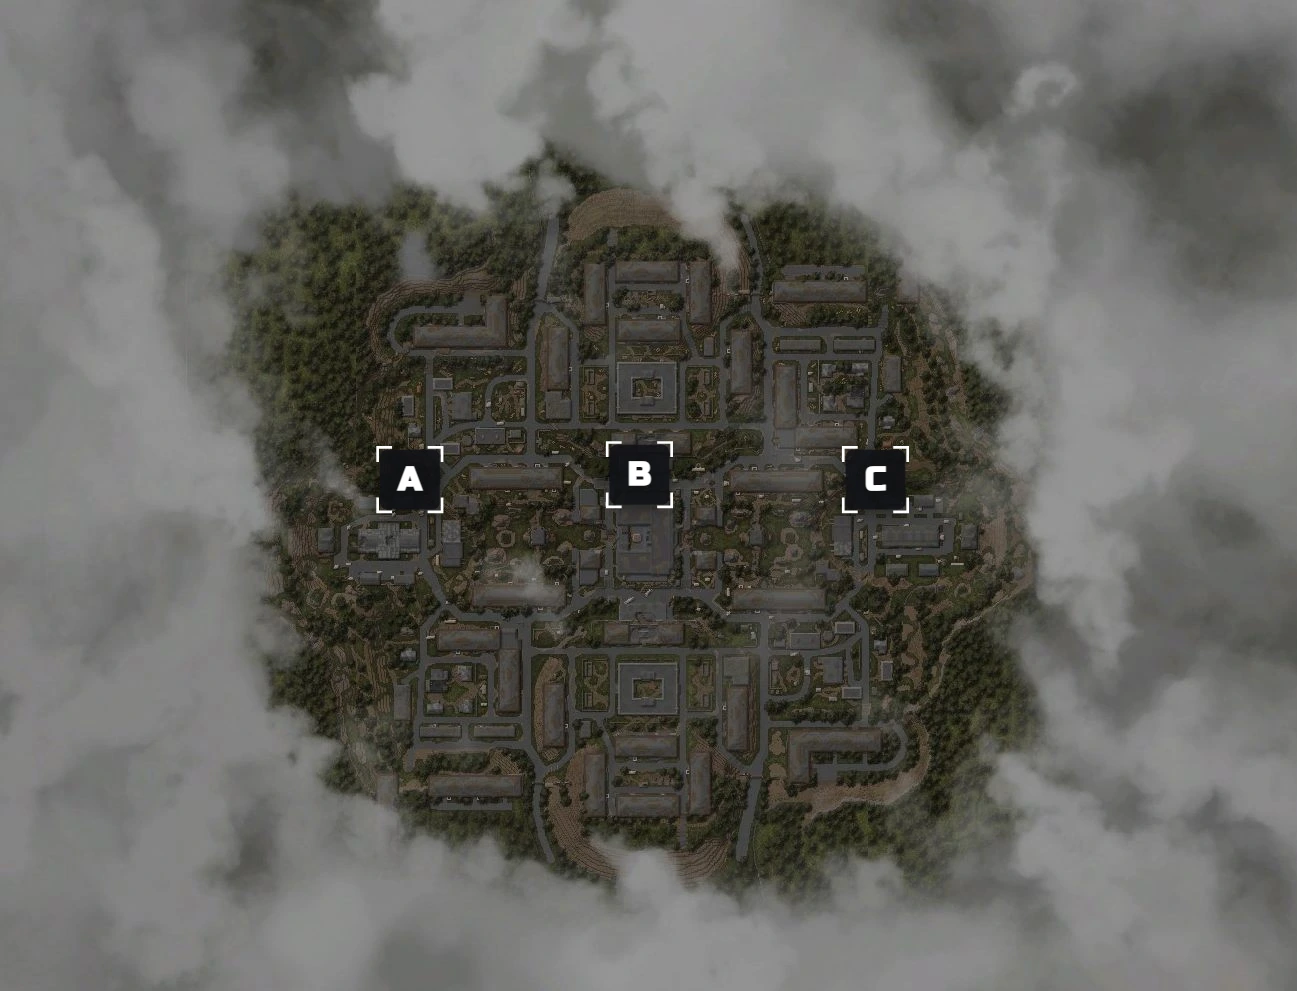
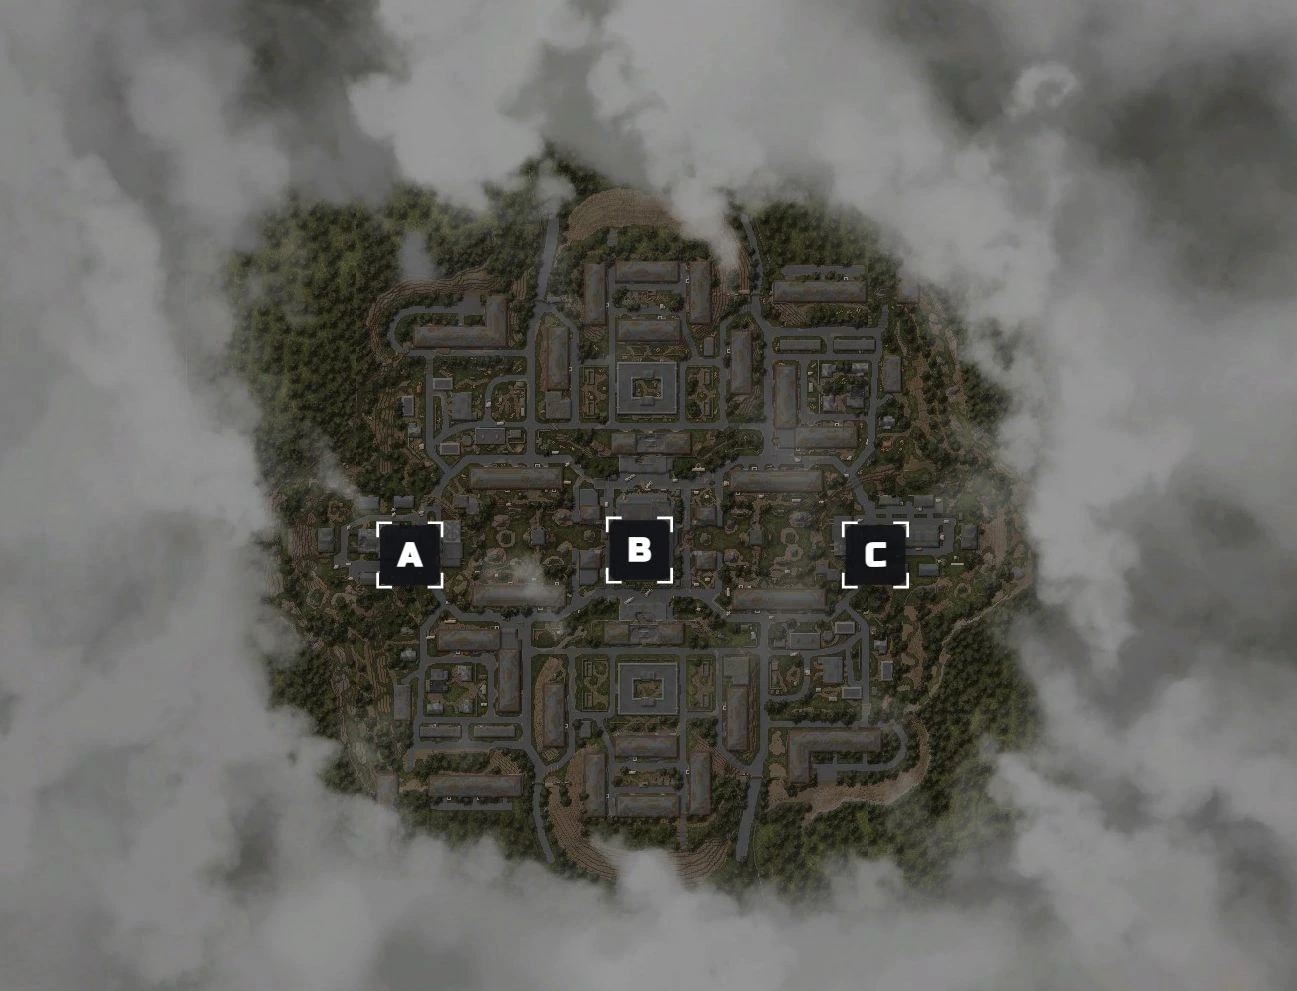
feat: vertical tool panel next to map and lower Hvoiny capture points

Changed region(s): [[0.4626, 0.4238, 0.5243, 0.6054], [0.6476, 0.4541, 0.7093, 0.6054], [0.2776, 0.4541, 0.3392, 0.6054]]

diff --git a/index.html b/index.html
@@ -180,8 +180,9 @@ a:hover{color:var(--ac)}
 .side-nav{flex:1;display:flex;flex-direction:column;gap:2px;min-height:0;overflow-y:auto;scrollbar-width:thin}
 .side-sec{padding:12px 10px 4px;font-size:11px;letter-spacing:.14em;text-transform:uppercase;color:var(--mut);font-weight:700;opacity:.8}
 .side-foot{flex:none;border-top:1px solid var(--bd);padding-top:10px;display:flex;flex-direction:column;gap:2px;margin-top:auto}
-.side-tools{display:flex;flex:none;flex-direction:column;gap:8px;padding:12px;border:1px solid var(--bd);border-radius:14px;background:linear-gradient(180deg,rgba(var(--ac-rgb),.07),transparent 130px),var(--in);margin-bottom:12px}
-.side-tools .tac-sec{font-size:11px;letter-spacing:.14em;text-transform:uppercase;color:var(--mut);font-weight:700;margin:0 0 2px}
+.tac-vtools{display:flex;flex:none;flex-direction:column;gap:8px;padding:10px;border:1px solid var(--bd);border-radius:14px;background:linear-gradient(180deg,rgba(var(--ac-rgb),.07),transparent 130px),var(--in);align-self:start;position:sticky;top:76px}
+.tac-vtools .tac-sec{font-size:11px;letter-spacing:.14em;text-transform:uppercase;color:var(--mut);font-weight:700;margin:0 0 2px}
+.tac-work{display:grid;grid-template-columns:132px minmax(0,1fr);gap:14px;align-items:start}
 .acc-row{display:flex;align-items:center;gap:7px;padding:6px 4px 4px}
 .acc-row .alab{font-size:10px;letter-spacing:.1em;text-transform:uppercase;color:var(--mut);font-weight:700;margin-right:2px}
 .acsw{width:24px;height:24px;min-height:0;padding:0;border-radius:50%;border:2px solid transparent;box-shadow:0 0 0 1px var(--bd2);background:var(--sw);transform:none}
@@ -289,9 +290,11 @@ a:hover{color:var(--ac)}
 .tac-tool{display:inline-flex;align-items:center;justify-content:center;gap:6px;padding:7px 11px;min-height:36px;border-radius:9px;background:var(--in);border:1px solid var(--bd);color:var(--mut);font-weight:600;font-size:13px;box-shadow:none;transform:none;text-decoration:none}
 .tac-tool:hover{color:var(--tx);border-color:var(--ac);box-shadow:none;transform:none;filter:none}
 .tac-tool.on{color:var(--tx);border-color:var(--ac);background:linear-gradient(180deg,rgba(var(--ac-rgb),.26),rgba(var(--ac-rgb),.1));box-shadow:inset 0 0 0 1px rgba(var(--ac-rgb),.42),0 0 14px rgba(var(--ac-rgb),.16)}
-.side-tools .tac-tools{display:grid;grid-template-columns:repeat(2,minmax(0,1fr));gap:6px}
-.side-tools .tac-tool{min-height:46px}
-.side-tools:empty{display:none}
+.tac-vtools .tac-tools{display:flex;flex-direction:column;gap:6px}
+.tac-vtools .tac-tool{width:100%;justify-content:flex-start;min-height:44px}
+.tac-vtools .tac-tool.on{box-shadow:inset 3px 0 0 var(--ac),inset 0 0 0 1px rgba(var(--ac-rgb),.42),0 0 14px rgba(var(--ac-rgb),.16)}
+.tac-vtools .tac-markbar{flex-direction:column;align-items:stretch;margin:0;padding:8px;gap:6px}
+.tac-vtools .tac-sides{display:flex;flex-wrap:wrap}
 .tac-sep{width:1px;height:22px;background:var(--bd);margin:0 3px}
 .tac-colors{display:flex;gap:5px;align-items:center;flex-wrap:wrap}
 .tac-color{width:28px;height:28px;min-height:0;padding:0;border-radius:50%;border:2px solid transparent;box-shadow:0 0 0 1px var(--bd2);transform:none}
@@ -361,6 +364,11 @@ button.danger:hover{box-shadow:0 0 18px rgba(225,29,72,.45)}
   .tac-map img{width:88px;height:56px;flex:none}
   .tac-map .nm{flex:1;min-width:0}
   .tac-tool{min-height:44px}
+  .tac-work{grid-template-columns:1fr}
+  .tac-vtools{position:static}
+  .tac-vtools .tac-tools{display:grid;grid-template-columns:repeat(3,minmax(0,1fr))}
+  .tac-vtools .tac-markbar{flex-direction:row;flex-wrap:wrap}
+  .tac-vtools .tac-tool{width:auto}
   .tac-color{width:40px;height:40px}
   .tac-side-b{min-height:40px;padding:6px 12px}
   .tac-zoom button{min-width:40px;min-height:40px}
@@ -576,7 +584,6 @@ function shell(title, tabs, views, again, icon, primary) {
     <aside class="sidebar">
       <div class="side-brand">${logo}<div style="min-width:0"><span>ClanPulse</span><b>${esc(title)}</b></div></div>
       <nav class="side-nav">${nav}</nav>
-      <div class="side-tools" id="side-tools"></div>
       <div class="side-foot">${foot}</div>
     </aside>
     <div class="main">
@@ -598,7 +605,6 @@ function shell(title, tabs, views, again, icon, primary) {
   <aside class="drawer" id="drawer">
     <div class="side-brand" style="margin-bottom:4px">${logo}<div style="min-width:0"><span>ClanPulse</span><b>${esc(title)}</b></div></div>
     <nav class="side-nav">${nav}</nav>
-    <div class="side-tools" id="drawer-tools"></div>
     <div class="side-foot">${foot}</div>
   </aside>`;
   const drawer = document.getElementById('drawer'), scrim = document.getElementById('scrim');
@@ -1834,13 +1840,21 @@ const TAC_MAPS = {
   berdovka: { name: 'Малая Бердовка', file: 'tactics/berdovka.jpg', capsFile: 'tactics/berdovka_caps.webp', w: 1615, h: 1070,
     caps: [[0.364, 0.533], [0.483, 0.525], [0.437, 0.332], [0.591, 0.407], [0.587, 0.640], [0.445, 0.699]] },
   hvoiny: { name: 'Хвойный', file: 'tactics/hvoiny.jpg', capsFile: 'tactics/hvoiny_caps.webp', w: 1297, h: 991,
-    caps: [[0.316, 0.484], [0.493, 0.479], [0.675, 0.484]] },
+    caps: [[0.316, 0.560], [0.493, 0.555], [0.675, 0.560]] },
   nizina: { name: 'Низина', file: 'tactics/nizina.jpg', capsFile: 'tactics/nizina_caps.webp', w: 1847, h: 1172,
     caps: [[0.500, 0.536], [0.395, 0.401], [0.500, 0.361], [0.602, 0.402], [0.590, 0.662], [0.501, 0.796], [0.409, 0.654]] }
 };
 const TAC_COLORS = [['#ff2d55', 'красный'], ['#ff8a3d', 'оранжевый'], ['#ffd23f', 'жёлтый'], ['#2ee66b', 'зелёный'],
   ['#29d3ff', 'голубой'], ['#b47cff', 'фиолетовый'], ['#ffffff', 'белый'], ['#0b1020', 'чёрный']];
 const TAC_TOOLS = [['brush', 'Кисть'], ['line', 'Линия'], ['arrow', 'Стрелка'], ['erase', 'Ластик'], ['stamp', 'Метка'], ['pan', 'Рука']];
+const TAC_TOOL_ICON = {
+  brush: svg(16, '<path d="m14.5 5.5 4 4L11 17l-4 1 1-4z"/><path d="M13.5 6.5 17.5 10.5"/>'),
+  line: svg(16, '<path d="M5 19 19 5"/><circle cx="5" cy="19" r="1.5"/><circle cx="19" cy="5" r="1.5"/>'),
+  arrow: svg(16, '<path d="M5 19 19 5"/><path d="M13 5h6v6"/>'),
+  erase: svg(16, '<path d="m8 20-5-5 9-9 6 6-7 8z"/><path d="M21 20H9"/>'),
+  stamp: svg(16, '<path d="M12 2 3 7v10l9 5 9-5V7z"/><path d="M3 7l9 5 9-5M12 12v10"/>'),
+  pan: svg(16, '<path d="M8 13V5a1.5 1.5 0 0 1 3 0v6m0-2a1.5 1.5 0 0 1 3 0v3m0-1a1.5 1.5 0 0 1 3 0v5a6 6 0 0 1-6 6h-2a6 6 0 0 1-5-3l-3-5a1.5 1.5 0 0 1 2.5-1.7L8 13"/>')
+};
 // Метки-штампы: палатка (точка сбора/лагерь), ралик (скоростная сборка, «раллист»),
 // захват (зона удержания точки). Буква зоны для «захвата» подставляется автоматически.
 const TAC_STAMPS = {
@@ -2016,10 +2030,10 @@ function viewTactics() {
   const list = plan.maps[TAC.map];
   const sbtn = ([k, v]) => `<button type="button" class="tac-tool tac-stamp ${TAC.stamp === k ? 'on' : ''}" data-stamp="${k}" aria-pressed="${TAC.stamp === k}">${svg(15, v[1])}<span>${v[0]}</span></button>`;
   const sideBtn = ([k, v]) => `<button type="button" class="tac-side-b ${k} ${TAC.side === k ? 'on' : ''}" data-side="${k}" aria-pressed="${TAC.side === k}"><i style="background:${v[1]}"></i>${v[0]}</button>`;
-  // Выбор инструментов живёт в боковой панели — подальше от карты.
+  // Инструменты — вертикальная панель слева от карты (как в графическом редакторе).
   const fillTools = () => {
     const html = `<div class="tac-sec">Инструменты</div>
-      <div class="tac-tools">${TAC_TOOLS.map(t => `<button type="button" class="tac-tool ${TAC.tool === t[0] ? 'on' : ''}" data-tool="${t[0]}" aria-pressed="${TAC.tool === t[0]}">${t[1]}</button>`).join('')}</div>
+      <div class="tac-tools">${TAC_TOOLS.map(t => `<button type="button" class="tac-tool ${TAC.tool === t[0] ? 'on' : ''}" data-tool="${t[0]}" aria-pressed="${TAC.tool === t[0]}">${TAC_TOOL_ICON[t[0]]}<span>${t[1]}</span></button>`).join('')}</div>
       <div class="tac-markbar" ${TAC.tool === 'stamp' ? '' : 'hidden'}>
         <span class="tac-mlab">Метка</span>
         ${Object.entries(TAC_STAMPS).map(sbtn).join('')}
@@ -2029,9 +2043,9 @@ function viewTactics() {
         <span class="tac-sep" aria-hidden="true"></span>
         <button type="button" class="tac-tool ${TAC.capPlacing ? 'on' : ''}" data-cappl="${TAC.capPlacing ? 'true' : 'false'}" aria-pressed="${TAC.capPlacing}">${TAC.capPlacing ? 'Захват: вручную' : 'Захват: по карте'}</button>
       </div>`;
-    document.querySelectorAll('.side-tools').forEach(el => { el.innerHTML = html; });
+    const host = document.getElementById('tac_vtools');
+    if (host) host.innerHTML = html;
   };
-  fillTools();
   body.innerHTML = `<div class="card">
     <div class="row" style="justify-content:space-between;align-items:flex-start;margin:0 0 12px">
       <div style="min-width:0;flex:1 1 220px"><h2 style="margin:0">Карты турниров</h2>
@@ -2042,7 +2056,9 @@ function viewTactics() {
       <img src="${v.file}" alt="" loading="lazy" width="${v.w}" height="${v.h}">
       <span class="nm"><b>${esc(v.name)}</b><span data-mcount="${k}">${plan.maps[k].length}</span></span></button>`).join('')}</div>
   </div>
-  <div class="card">
+  <div class="card tac-work">
+    <div class="tac-vtools" id="tac_vtools"></div>
+    <div class="tac-work-main">
     <div class="tac-bar" role="toolbar" aria-label="Настройки разметки">
       <div class="tac-colors" role="group" aria-label="Цвет разметки">${TAC_COLORS.map(c => `<button class="tac-color ${c[0] === TAC.color ? 'on' : ''}" data-color="${c[0]}" style="background:${c[0]}" aria-label="Цвет: ${c[1]}" aria-pressed="${c[0] === TAC.color}"></button>`).join('')}</div>
       <span class="tac-sep" aria-hidden="true"></span>
@@ -2069,7 +2085,9 @@ function viewTactics() {
       <button id="tac_zr" aria-label="Сбросить масштаб" title="Сбросить масштаб">1:1</button>
     </div></div>
     <p class="tac-hint" id="tac_hint">Метка ставится кликом по карте, повторный клик по метке убирает её. Свой — синий, враг — красный. Масштаб — колесо мыши, щипок или кнопки на карте. Отменить — Ctrl+Z.</p>
+    </div>
   </div>`;
+  fillTools();
 
   const stage = document.getElementById('tac_stage'), fit = document.getElementById('tac_fit');
   const img = document.getElementById('tac_img'), cv = document.getElementById('tac_cv');
